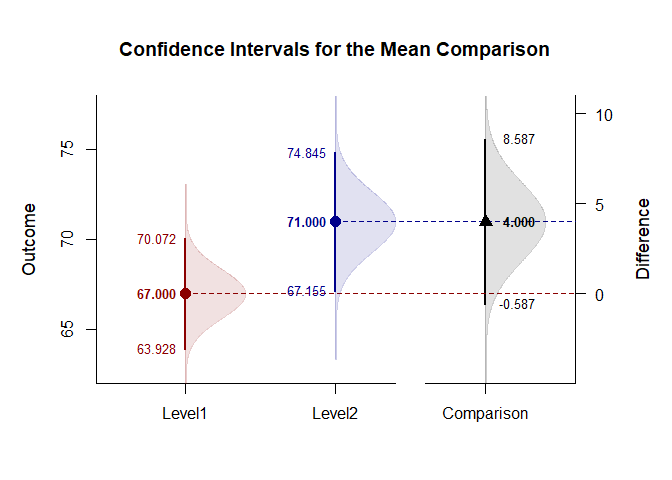
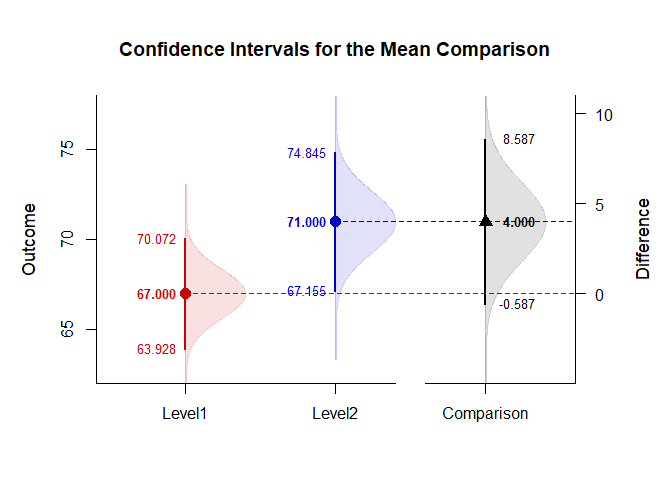
Updated color application

diff --git a/docs/applications/ThemeOneWayDataApplication.md b/docs/applications/ThemeOneWayDataApplication.md
@@ -43,13 +43,13 @@ In plotting a comparison, the classic method would again directly specify the le
 
 ```r
 Comparison <- factor(Factor,c("Level1","Level2"))
-(Outcome~Comparison) |> plotMeanComparison(col=c("darkred","darkblue","black"))
-(Outcome~Comparison) |> plotPlausible(col=c("darkred","darkblue","black"),add=TRUE)
+(Outcome~Comparison) |> plotMeanComparison(col=c("red3","blue3","black"))
+(Outcome~Comparison) |> plotPlausible(col=c("red3","blue3","black"),add=TRUE)
 ```
 
 ![](figures/Theme-OneWay-ComparisonA-1.png)<!-- -->
 
-It may be preferable to use a theme for the main elements (like the confidence intervals and plausibility curves), but use a set color for the comparison portion of the graph. To do this, use the "comp" parameter (instead of "main").
+It may be preferable to use a theme for the main elements (using the "vibrant" theme), but use a set color for the comparison portion of the graph. To do this, use the "comp" parameter (instead of "main").
 
 ```r
 (Outcome~Comparison) |> plotMeanComparison(col=theme("vibrant","comp"))

diff --git a/docs/applications/ThemeRepeatedMeasuresDataApplication.md b/docs/applications/ThemeRepeatedMeasuresDataApplication.md
@@ -46,13 +46,13 @@ In plotting a comparison, the classic method would again directly specify the le
 
 ```r
 ComparisonData <- cbind(Outcome1,Outcome2)
-(ComparisonData) |> plotMeanComparison(col=c("darkred","darkblue","black"))
-(ComparisonData) |> plotPlausible(col=c("darkred","darkblue","black"),add=TRUE)
+(ComparisonData) |> plotMeanComparison(col=c("red3","blue3","black"))
+(ComparisonData) |> plotPlausible(col=c("red3","blue3","black"),add=TRUE)
 ```
 
 ![](figures/Theme-Repeated-ComparisonA-1.png)<!-- -->
 
-It may be preferable to use a theme for the main elements (like the confidence intervals and plausibility curves), but use a set color for the comparison portion of the graph. To do this, use the "comp" parameter (instead of "main").
+It may be preferable to use a theme for the main elements (using the "vibrant" theme), but use a set color for the comparison portion of the graph. To do this, use the "comp" parameter (instead of "main").
 
 ```r
 (ComparisonData) |> plotMeanComparison(col=theme("vibrant","comp"))
